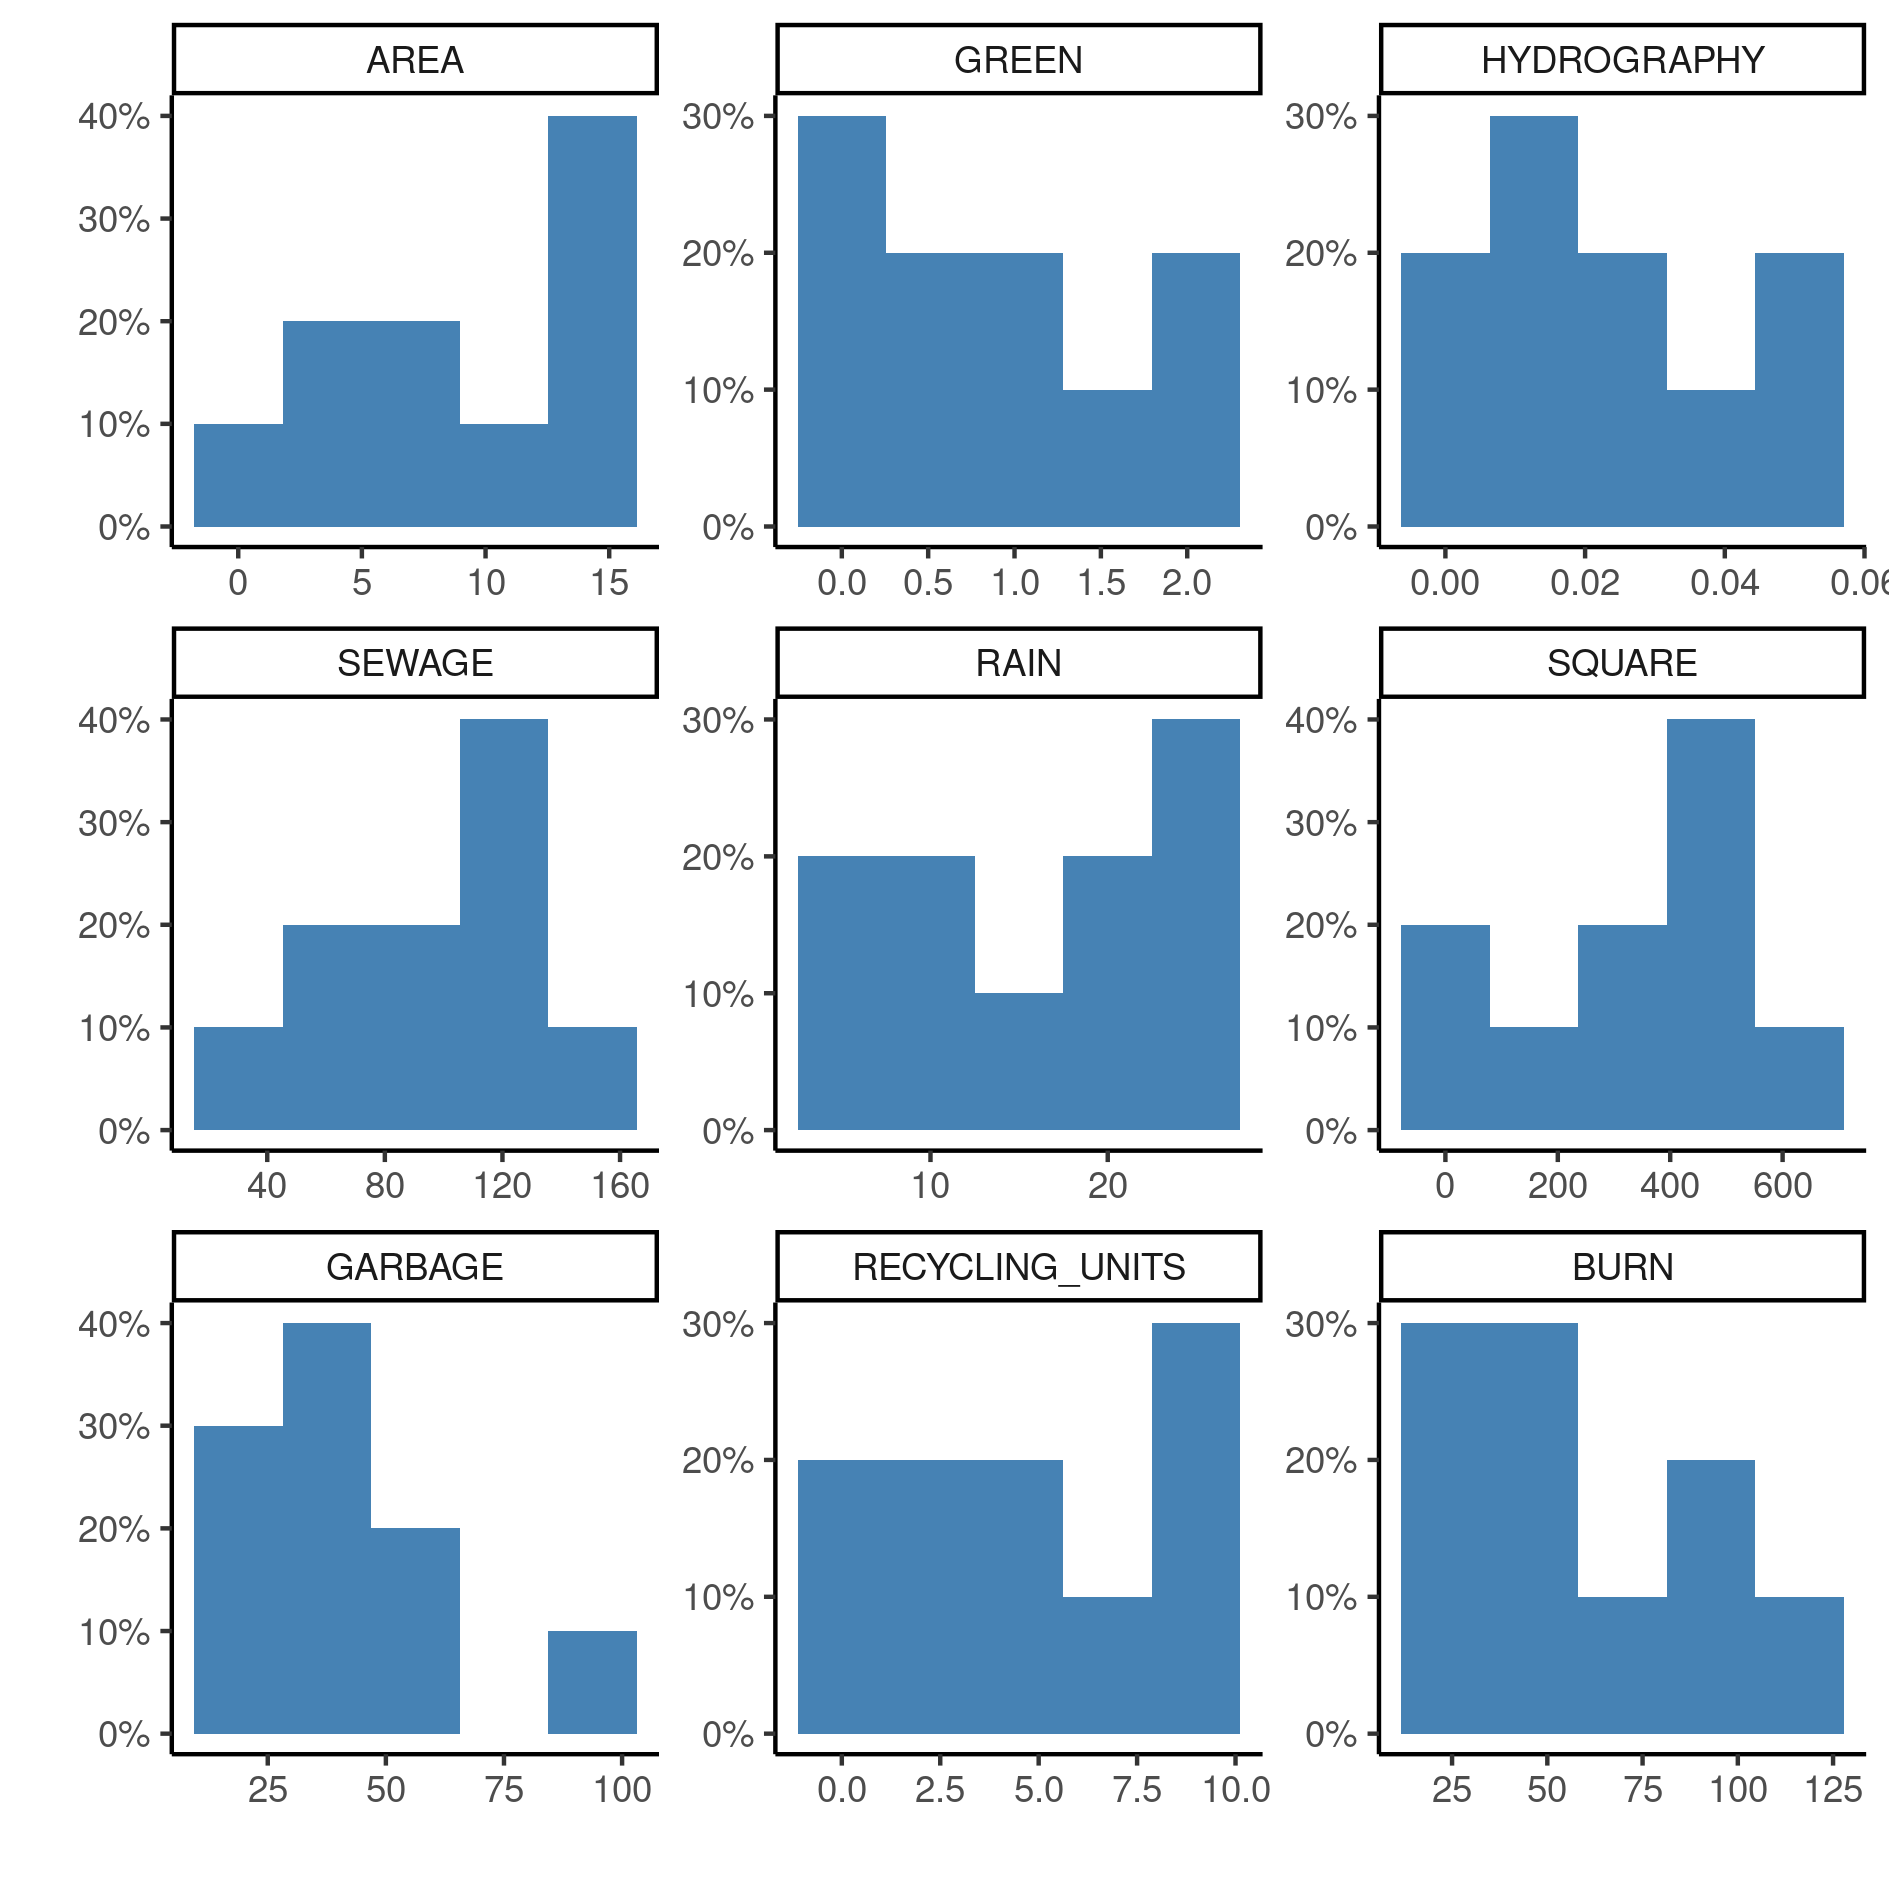
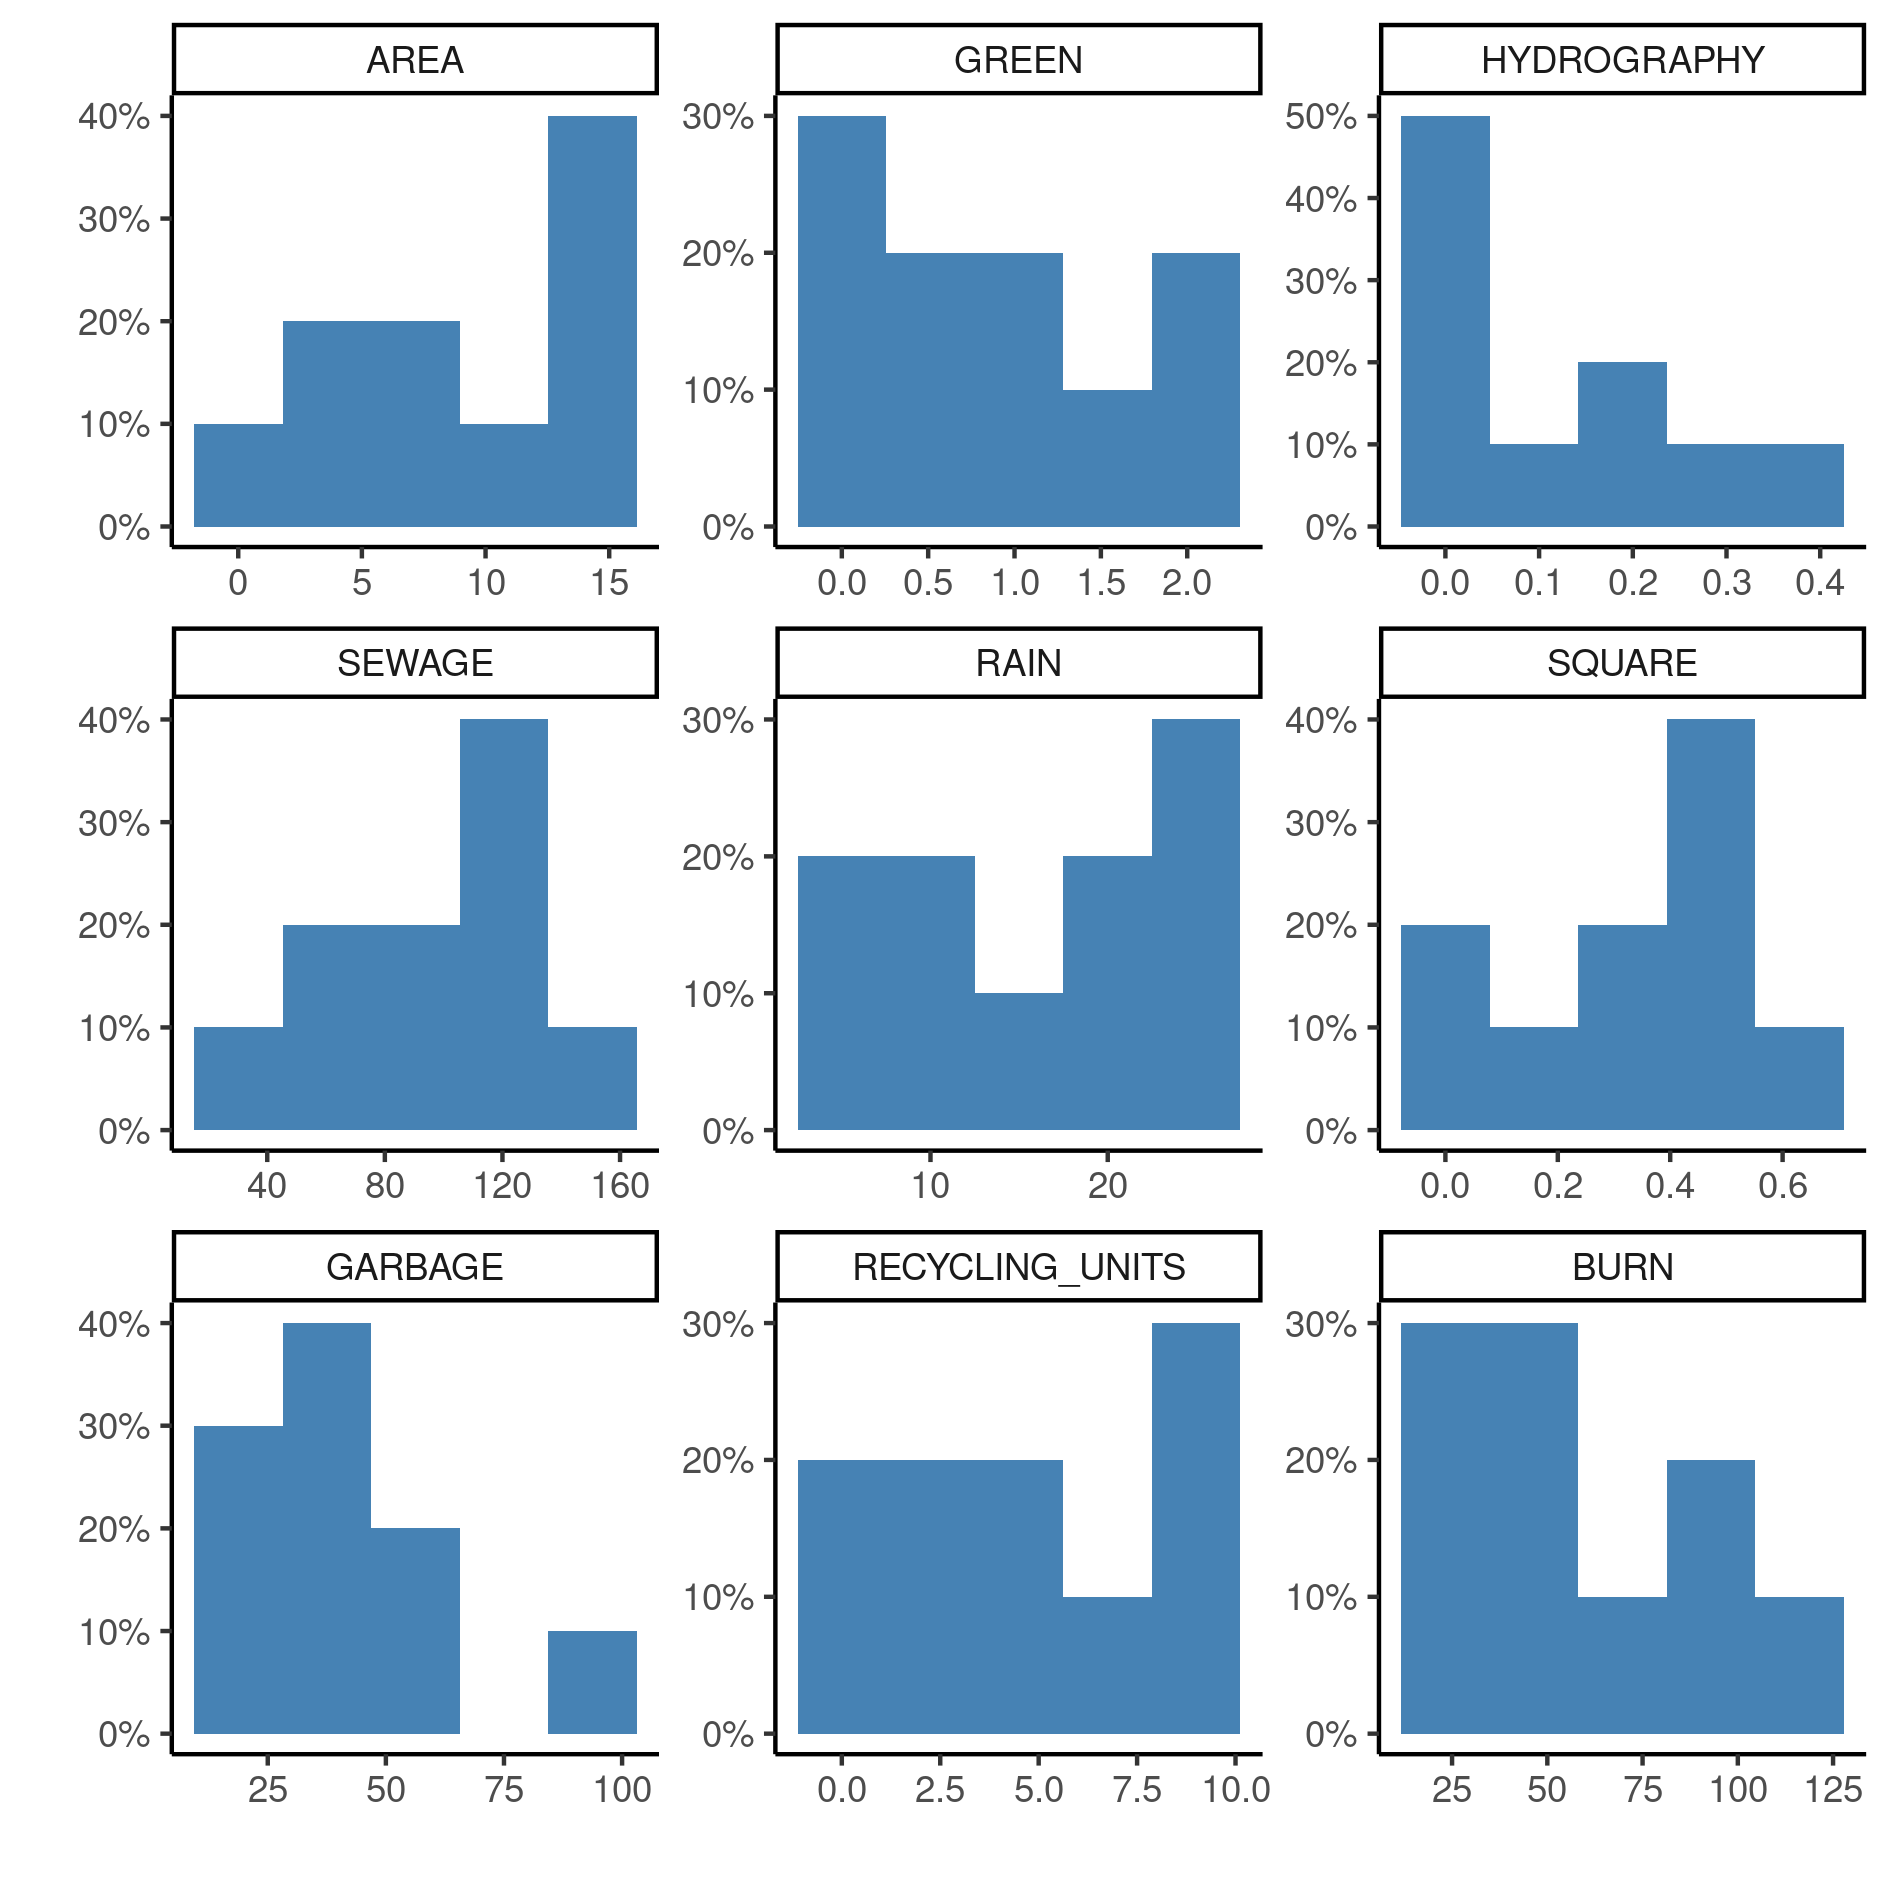
units adjusted for hydrography, squares and greens

diff --git a/report/SAR-2021-007-JB-v01.md b/report/SAR-2021-007-JB-v01.md
@@ -123,45 +123,45 @@ and on average
 
 Table: **Table 1** Geographical characteristics of Americana/SP across ten urban planning areas (1998-2008).
 
-|**Characteristic**                   |      **N = 10**      |
-|:------------------------------------|:--------------------:|
-|__Area (km²)__                       |                      |
-|Mean (SD)                            |      9.3 (5.5)       |
-|Median (IQR)                         |   9.3 (5.2, 14.2)    |
-|Range                                |      1.7, 16.0       |
-|__Green areas (km²)__                |                      |
-|Mean (SD)                            |     0.87 (0.81)      |
-|Median (IQR)                         |  0.70 (0.18, 1.39)   |
-|Range                                |      0.06, 2.11      |
-|__Hydrography area (km²)__           |                      |
-|Mean (SD)                            |    0.023 (0.019)     |
-|Median (IQR)                         | 0.020 (0.008, 0.038) |
-|Range                                |     0.002, 0.053     |
-|__Sewage network (km)__              |                      |
-|Mean (SD)                            |       91 (35)        |
-|Median (IQR)                         |     96 (72, 109)     |
-|Range                                |       32, 152        |
-|__Rainwater network (km)__           |                      |
-|Mean (SD)                            |      16.0 (7.5)      |
-|Median (IQR)                         |  15.4 (11.5, 22.8)   |
-|Range                                |      4.8, 24.7       |
-|__Squares and leisure areas (m²)__   |                      |
-|Mean (SD)                            |      367 (216)       |
-|Median (IQR)                         |    413 (188, 522)    |
-|Range                                |       56, 686        |
-|__Irregular garbage disposal areas__ |                      |
-|Mean (SD)                            |       40 (25)        |
-|Median (IQR)                         |     38 (18, 56)      |
-|Range                                |        10, 85        |
-|__Recycling units__                  |                      |
-|Mean (SD)                            |     5.10 (3.67)      |
-|Median (IQR)                         |  4.50 (2.00, 8.50)   |
-|Range                                |     1.00, 10.00      |
-|__Burned-out areas (foci)__          |                      |
-|Mean (SD)                            |       55 (31)        |
-|Median (IQR)                         |     52 (27, 78)      |
-|Range                                |       14, 107        |
-|__Presence of a cemitery, n (%)__    |       2 (20%)        |
+|**Characteristic**                   |    **N = 10**     |
+|:------------------------------------|:-----------------:|
+|__Area (km²)__                       |                   |
+|Mean (SD)                            |     9.3 (5.5)     |
+|Median (IQR)                         |  9.3 (5.2, 14.2)  |
+|Range                                |     1.7, 16.0     |
+|__Green areas (km²)__                |                   |
+|Mean (SD)                            |    0.87 (0.81)    |
+|Median (IQR)                         | 0.70 (0.18, 1.39) |
+|Range                                |    0.06, 2.11     |
+|__Hydrography area (km²)__           |                   |
+|Mean (SD)                            |    0.12 (0.13)    |
+|Median (IQR)                         | 0.08 (0.02, 0.15) |
+|Range                                |    0.00, 0.38     |
+|__Sewage network (km)__              |                   |
+|Mean (SD)                            |      91 (35)      |
+|Median (IQR)                         |   96 (72, 109)    |
+|Range                                |      32, 152      |
+|__Rainwater network (km)__           |                   |
+|Mean (SD)                            |    16.0 (7.5)     |
+|Median (IQR)                         | 15.4 (11.5, 22.8) |
+|Range                                |     4.8, 24.7     |
+|__Squares and leisure areas (m²)__   |                   |
+|Mean (SD)                            |    0.37 (0.22)    |
+|Median (IQR)                         | 0.41 (0.19, 0.52) |
+|Range                                |    0.06, 0.69     |
+|__Irregular garbage disposal areas__ |                   |
+|Mean (SD)                            |      40 (25)      |
+|Median (IQR)                         |    38 (18, 56)    |
+|Range                                |      10, 85       |
+|__Recycling units__                  |                   |
+|Mean (SD)                            |    5.10 (3.67)    |
+|Median (IQR)                         | 4.50 (2.00, 8.50) |
+|Range                                |    1.00, 10.00    |
+|__Burned-out areas (foci)__          |                   |
+|Mean (SD)                            |      55 (31)      |
+|Median (IQR)                         |    52 (27, 78)    |
+|Range                                |      14, 107      |
+|__Presence of a cemitery, n (%)__    |      2 (20%)      |
 
 <div class="figure">
 <img src="../figures/density.png" alt="**Figure 1** Distribution density of geographical characteristics of Americana/SP across ten urban planning areas (1998-2008); Area (km²), Burned-out areas (foci), Irregular garbage disposal (areas), Green areas (km²), Hydrography area (km²), Rainwater network (km), Recycling units, Sewage network (km), Squares and leisure areas (m²)." width="1889" />
